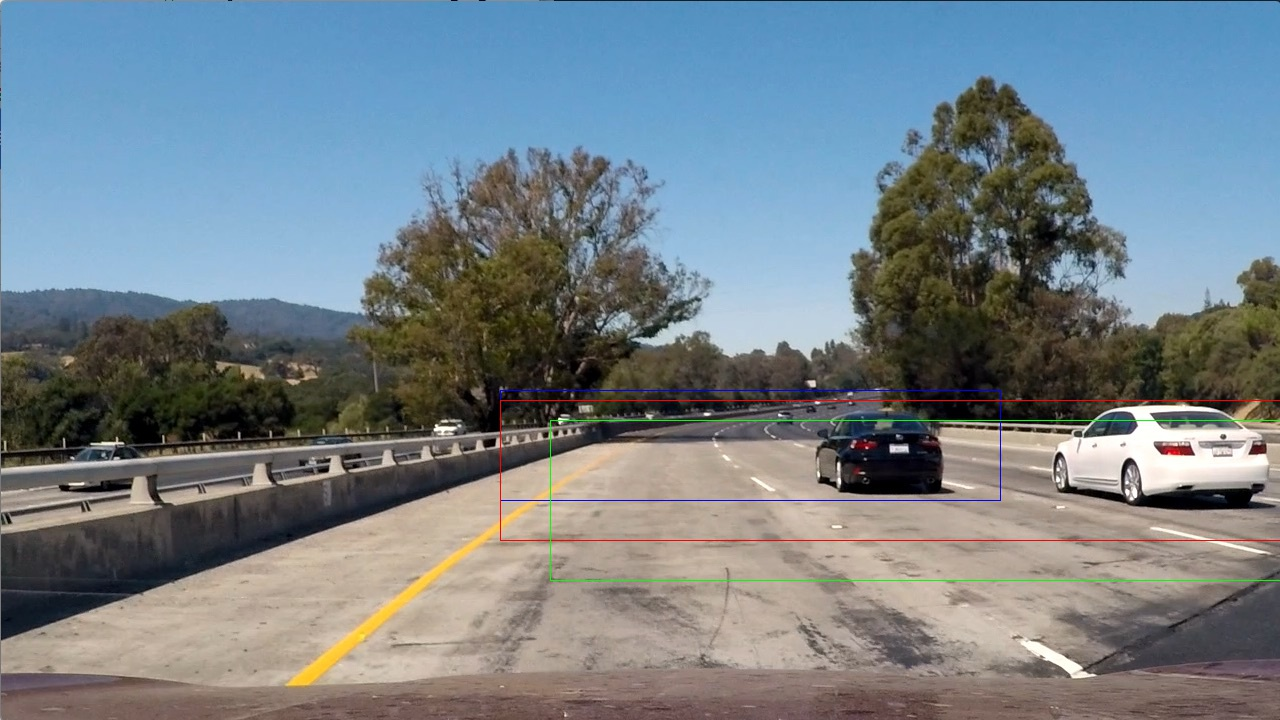
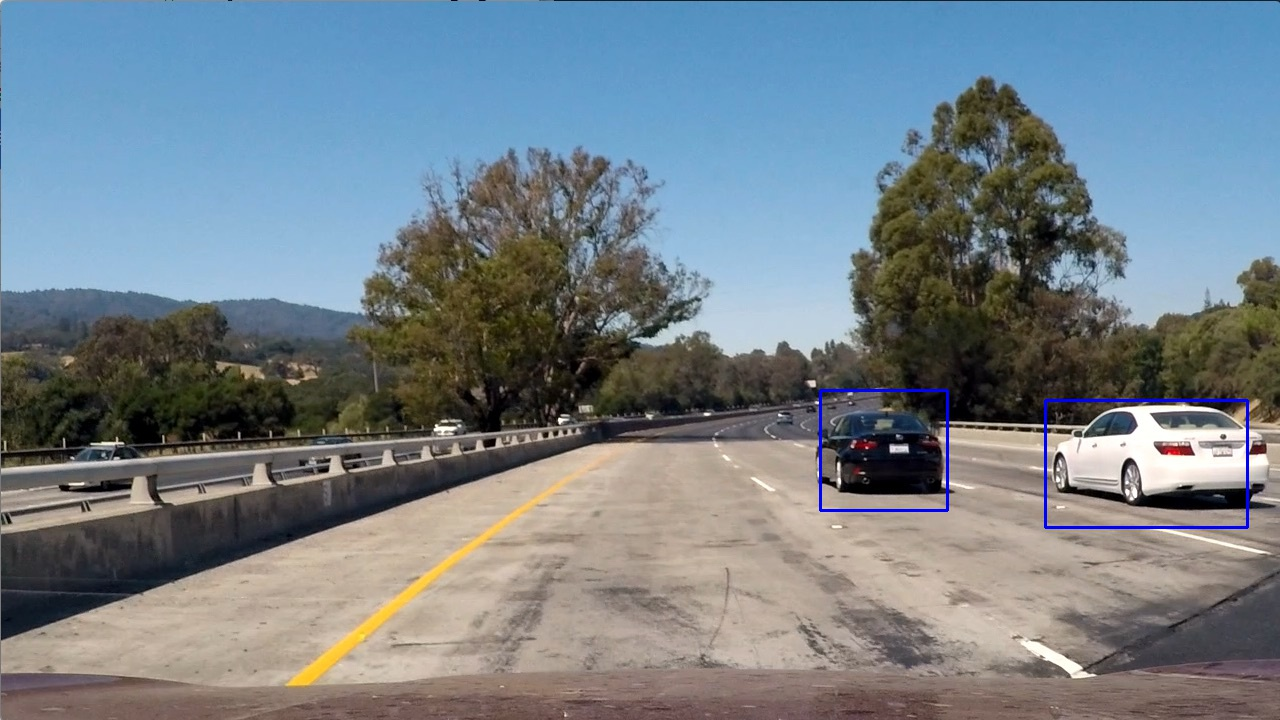
added 1st version of code to treat videos

Changed region(s): [[0.375, 0.5194, 1.0, 0.7639], [0.4375, 0.7944, 1.0, 0.825]]

diff --git a/code/handle_image.py b/code/handle_image.py
@@ -1,7 +1,8 @@
 from obj_detect_aux import normalize_image
 from obj_detect_aux import treat_training_image
+from scipy.ndimage.measurements import label
+
 import matplotlib as plt
-from random import randint
 import numpy as np
 import pickle
 import glob
@@ -11,6 +12,22 @@ import cv2
 def handle_iamge(img , search_boxes , clf , heat_thres = 1):
 	flt_heatmap = gen_filtered_heat_map(img , search_boxes , clf , heat_thres)
 	cv2.imwrite('../debug/heat_map.jpg' , flt_heatmap)
+
+	labels = label(flt_heatmap)
+	labeled_heatmaps = labels[0]
+	
+	for car_number in range(1, labels[1]+1):
+		# Find pixels with each car_number label value
+		nonzero = (labels[0] == car_number).nonzero()
+		# Identify x and y values of those pixels
+		nonzeroy = np.array(nonzero[0])
+		nonzerox = np.array(nonzero[1])
+		# Define a bounding box based on min/max x and y
+		bbox = ((np.min(nonzerox), np.min(nonzeroy)), (np.max(nonzerox), np.max(nonzeroy)))
+		# Draw the box on the image
+		cv2.rectangle(img, bbox[0], bbox[1], (255,0,0), 2)
+	# Return the image
+	return img
 
 def gen_filtered_heat_map(img , search_boxes , clf , heat_thres = 1):
 
@@ -87,7 +104,10 @@ print("boxes count is : " , len(search_boxes))
 
 clf = pickle.load(open("clf.p" , "rb"))
 
+for img_file in test_images:
 
-img = cv2.imread(test_images[1])
-handle_iamge(img , search_boxes , clf)
+	img = cv2.imread(img_file)	
+	cv2.imwrite( img_file.replace('test_images' , 'output_images'), handle_iamge(img , search_boxes , clf))
+
+
 

diff --git a/code/proccess_video.py b/code/proccess_video.py
@@ -1,0 +1,9 @@
+from moviepy.editor import VideoFileClip
+from handle_image import handle_image
+
+output_video = '../test_video_output.mp4'
+input_video  = '../test_video.mp4'
+
+clip1 = VideoFileClip(input_video)
+out_obj = clip1.fl_image(handle_image)
+out_obj.write_videofile( output_video , audio = False)	
